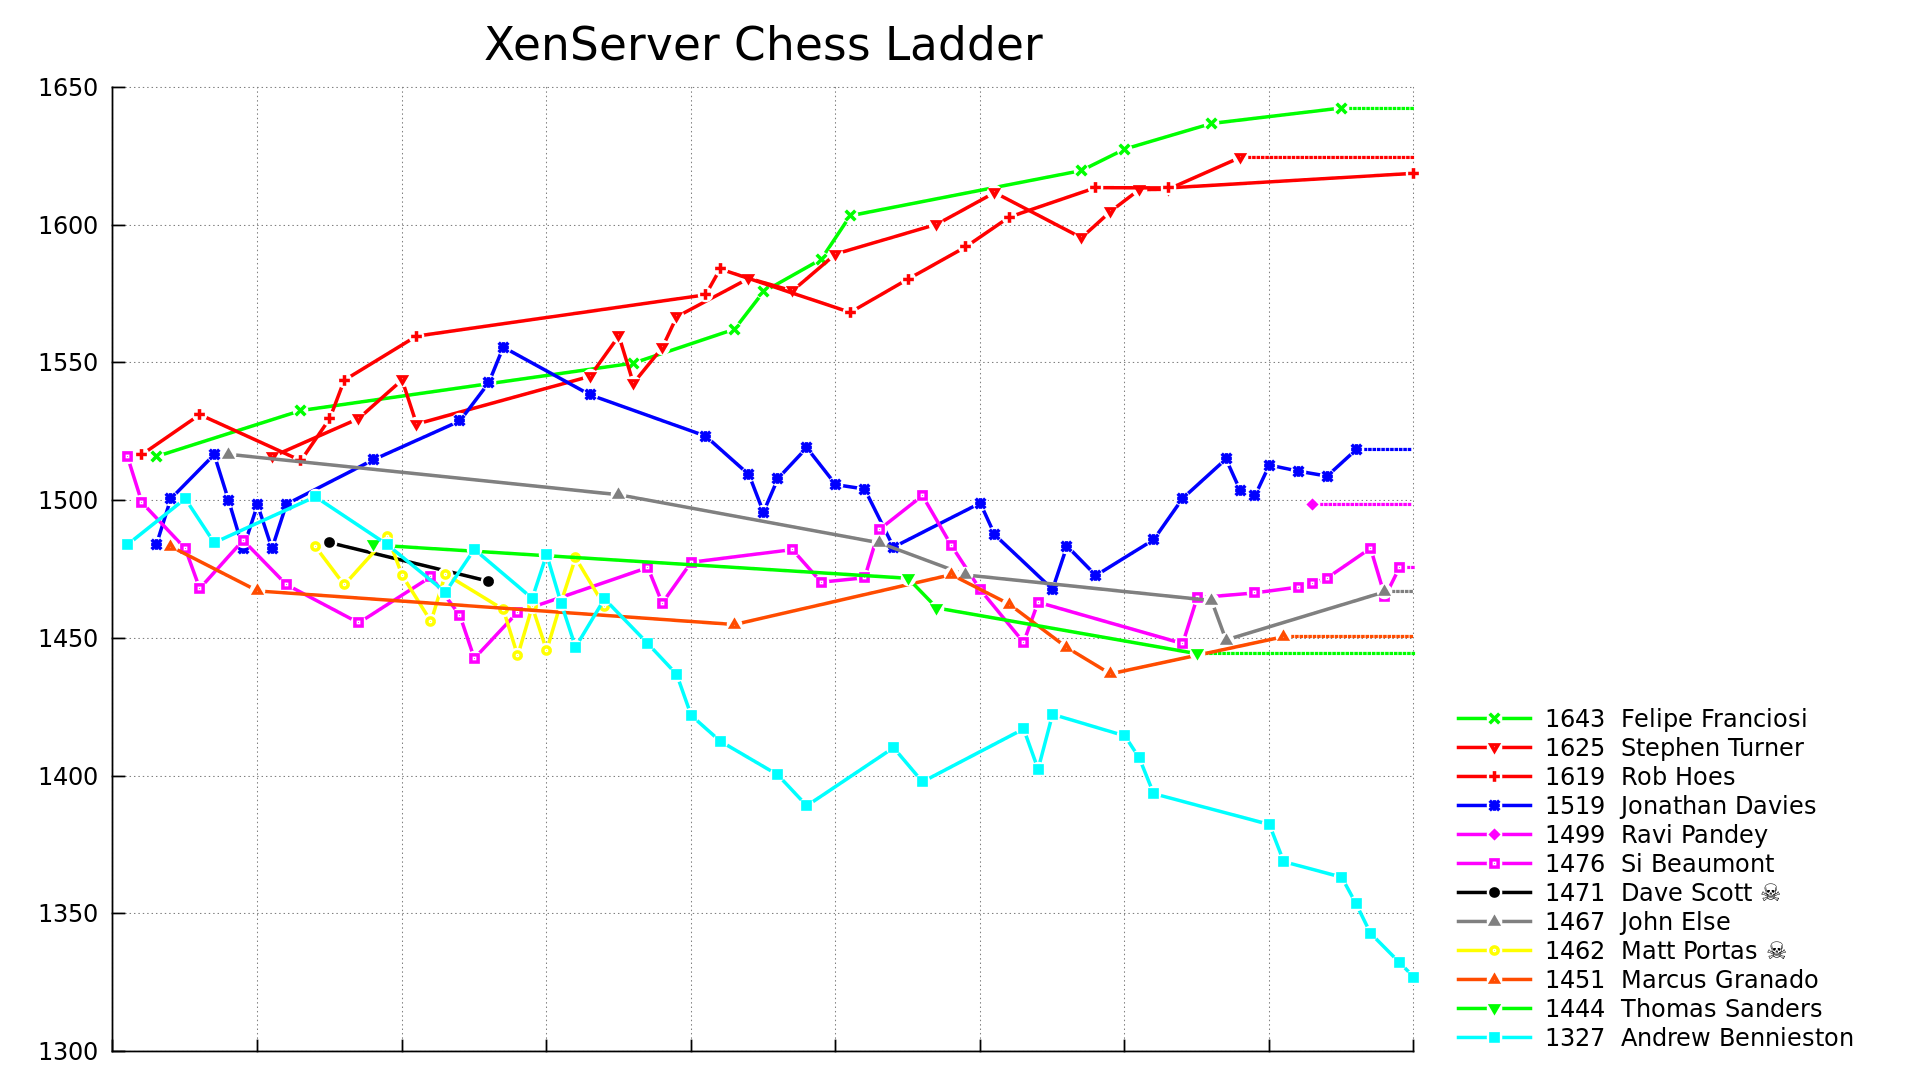
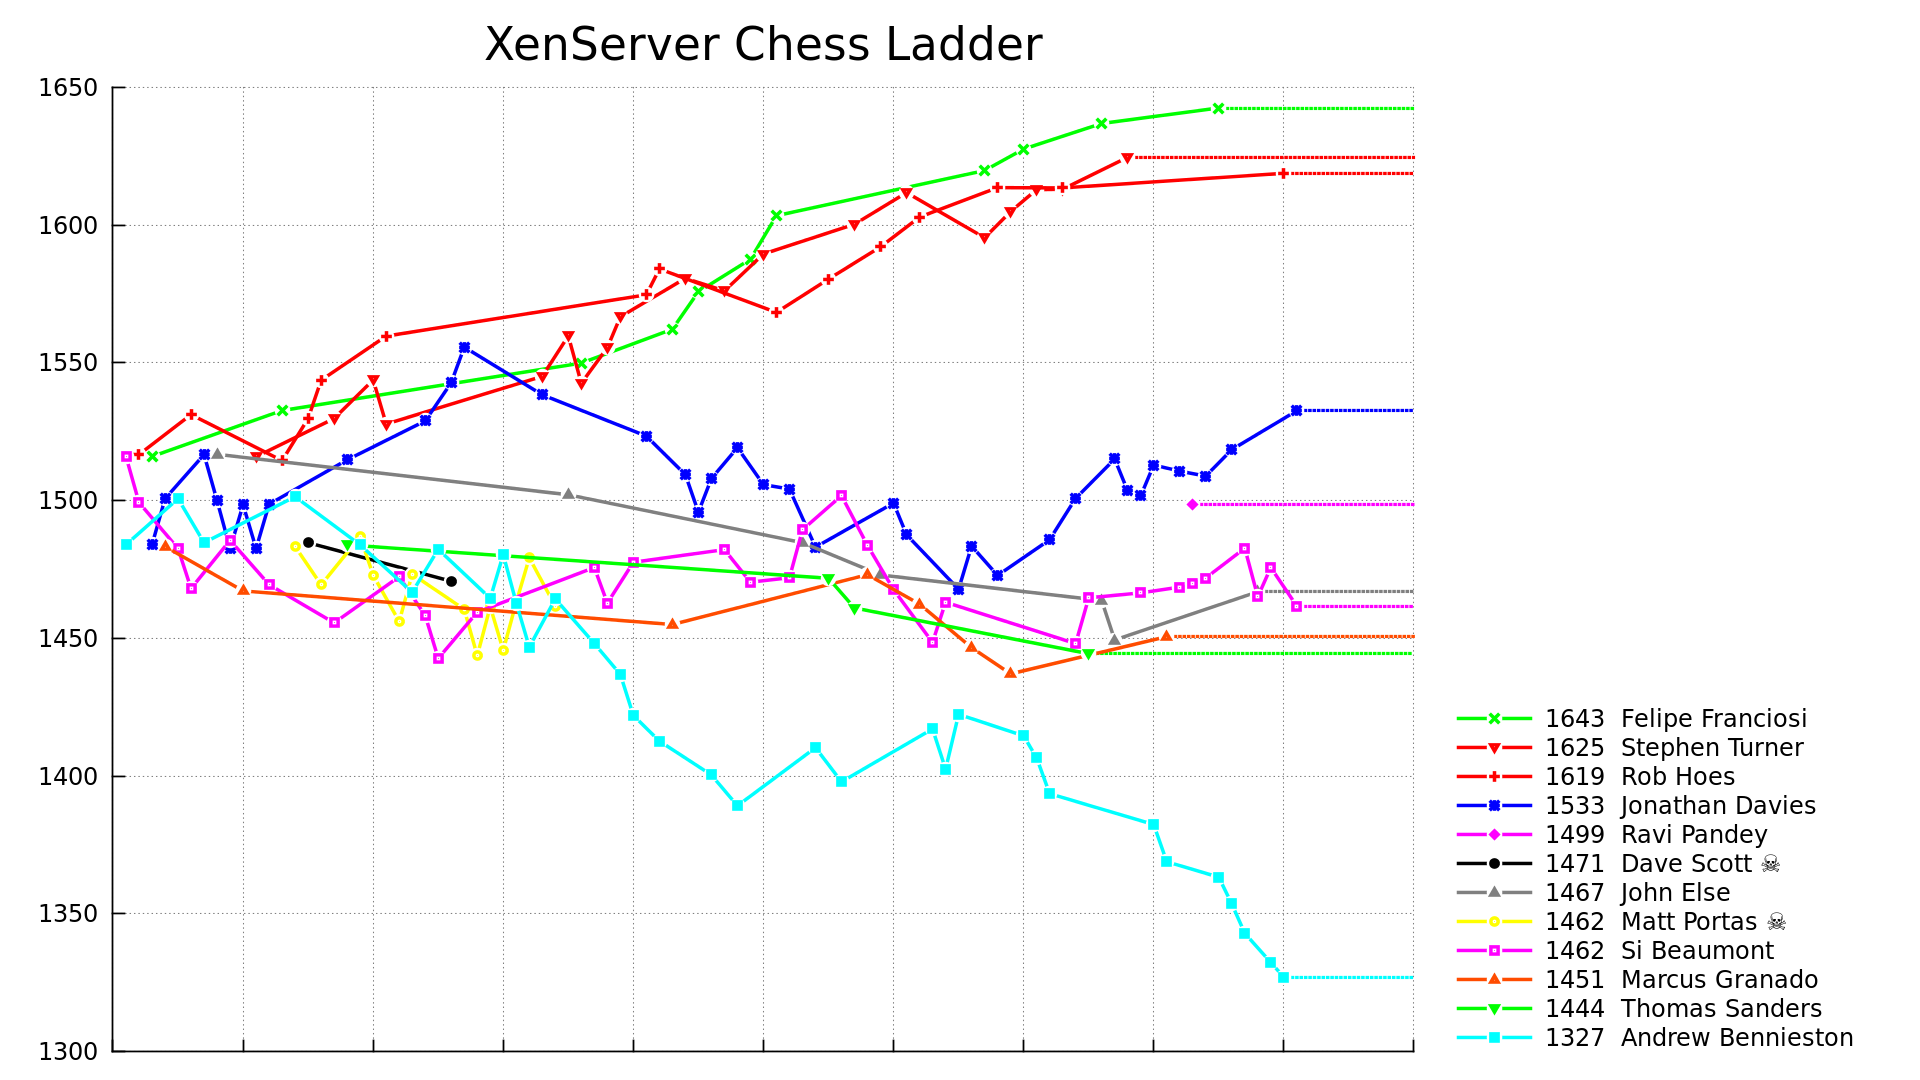
Travis build 177 pushed to gh-pages

diff --git a/index.md b/index.md
@@ -6,13 +6,13 @@ layout: default
      1.  Felipe Franciosi                   1643  (11 / 11)
      2.  Stephen Turner                     1625  (15 / 19)
      3.  Rob Hoes                           1619  (12.5 / 15)
-     4.  Jonathan Davies                    1519  (19 / 35)
+     4.  Jonathan Davies                    1533  (20 / 36)
      5.  Bill Briscombe                     1500  (0 / 0)
      6.  Ravi Pandey                        1499  (0.5 / 1)
-     7.  Si Beaumont                        1476  (15 / 32)
-     8.  Dave Scott                      ☠  1471  (0 / 2)
-     9.  John Else                          1467  (2 / 7)
-    10.  Matt Portas                     ☠  1462  (5 / 13)
+     7.  Dave Scott                      ☠  1471  (0 / 2)
+     8.  John Else                          1467  (2 / 7)
+     9.  Matt Portas                     ☠  1462  (5 / 13)
+    10.  Si Beaumont                        1462  (15 / 33)
     11.  Marcus Granado                     1451  (2 / 8)
     12.  Thomas Sanders                     1444  (0 / 4)
     13.  Andrew Bennieston                  1327  (8 / 33)
@@ -22,6 +22,7 @@ layout: default
           Stephen Turner - Bill Briscombe
         Felipe Franciosi - Si Beaumont
 ### Games
+    2014-03-14:      Jonathan Davies - Si Beaumont               1 - 0
     2014-03-13:    Andrew Bennieston - Rob Hoes                  0 - 1
     2014-03-13:          Si Beaumont - Andrew Bennieston         1 - 0
     2014-03-13:            John Else - Si Beaumont               1 - 0
